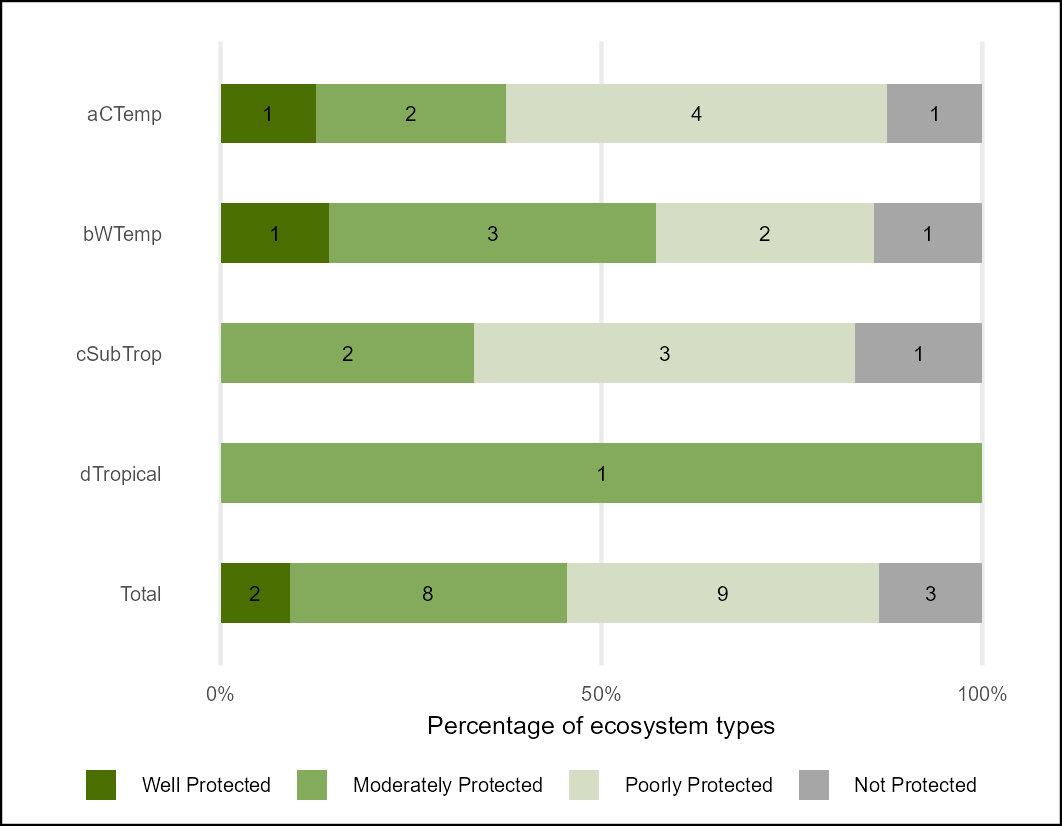
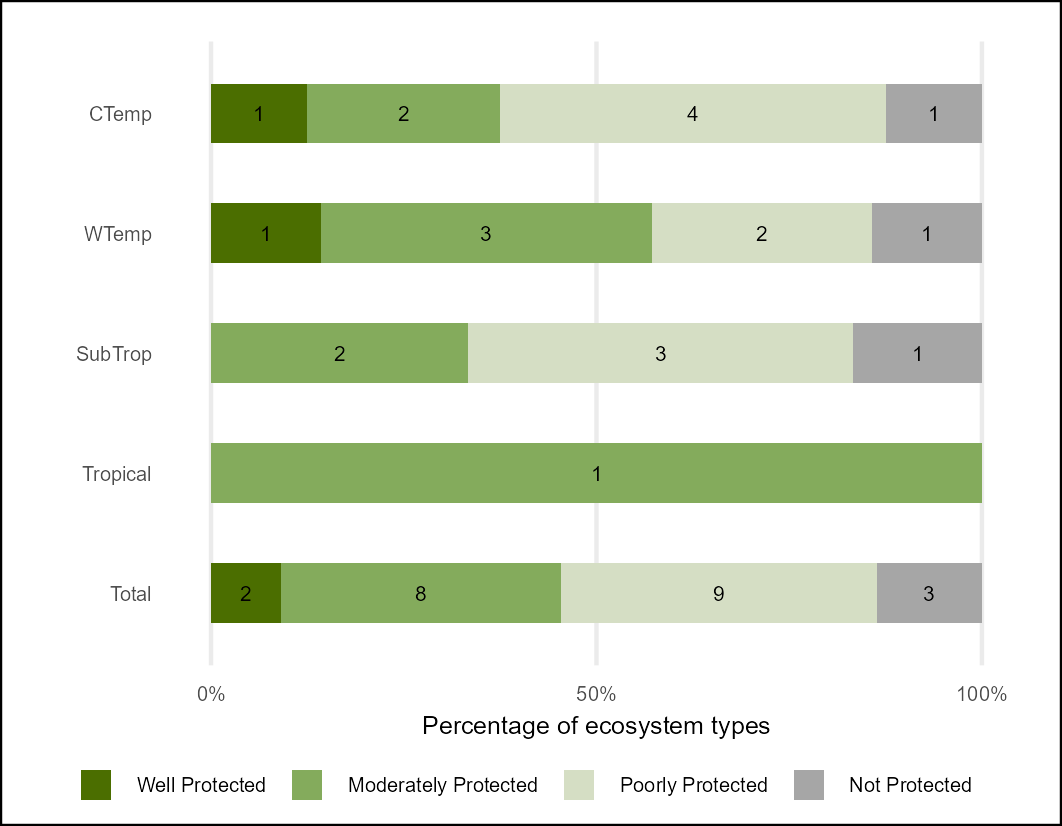
update plots with correct zones

diff --git a/README.md b/README.md
@@ -45,7 +45,7 @@ Summary table - extent of estuarine per biogeographic zone per EPL category [epl
 Estuarine Ecosystem Protection Level 2025 - plots
 
 | Count of Ecosystem Types per EPL category | Extent of Ecosystem Types per EPL category |
-|------------------------------------|------------------------------------|
+|----|----|
 | ![](outputs/epl24_est_bar_plot_count.png) | ![](outputs/epl24_est_bar_plot_ext.png) |
 
 EPL Index - showing decline in protection level for Subtropical Estuaries in particular - due to fishing pressures
